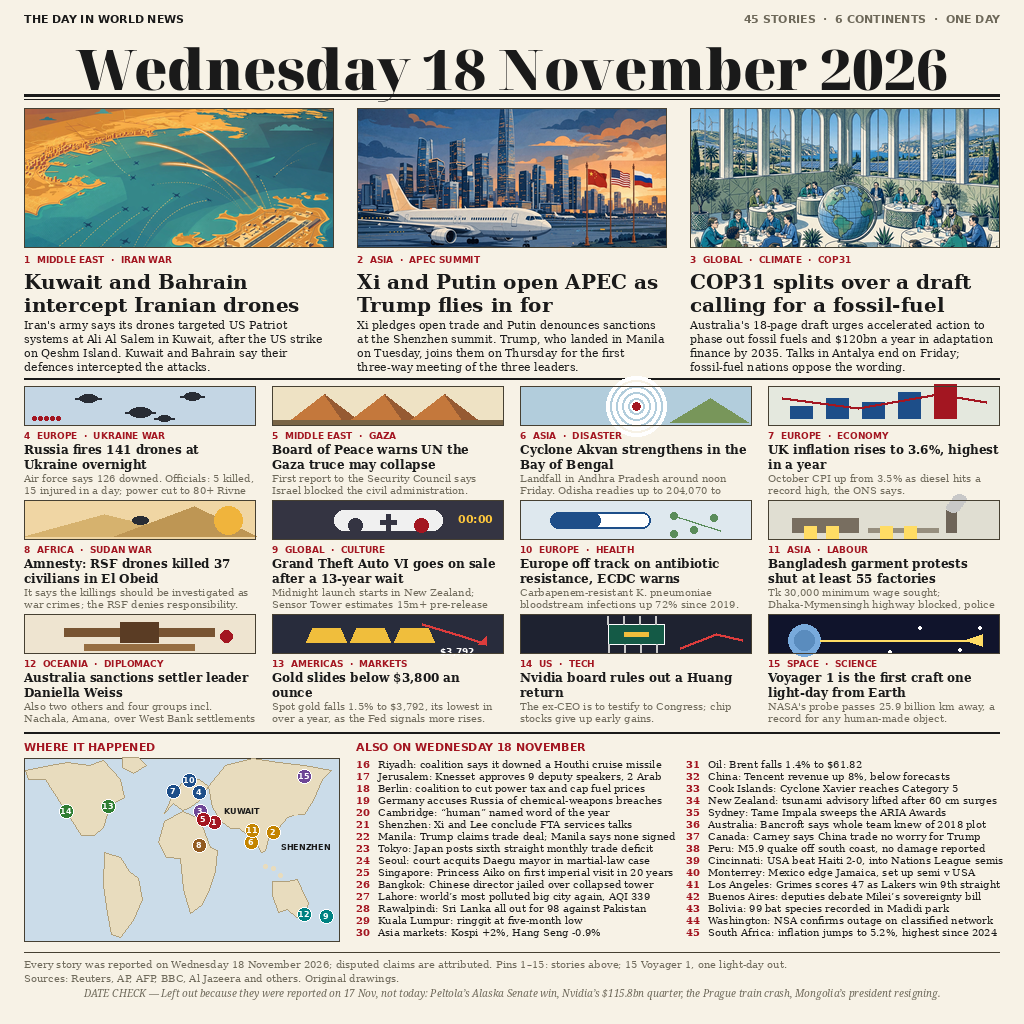
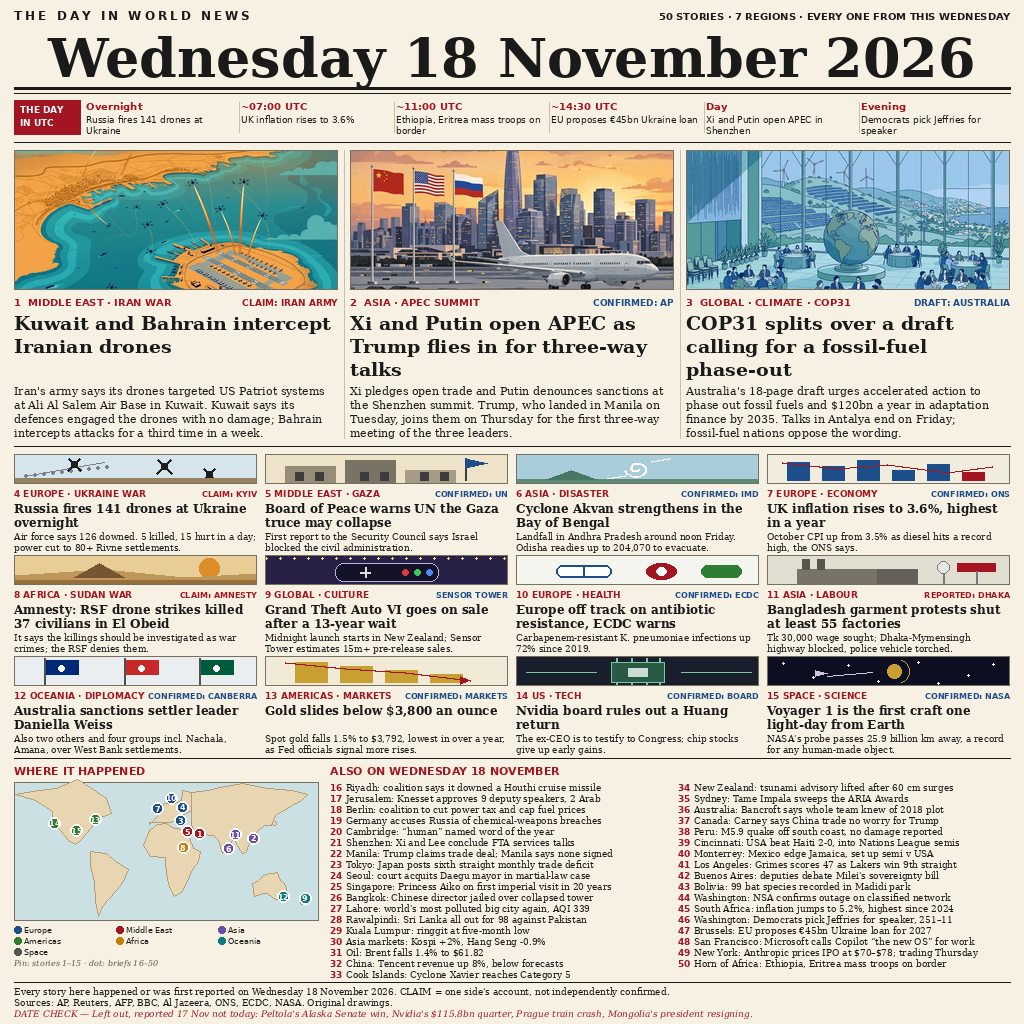
Revise news-image-20261118 rev2: 50 stories, UTC timeline, date check, source tags

diff --git a/main.ts b/main.ts
@@ -1,14 +1,15 @@
-// news-image-20261118 round 2 — "Wednesday 18 November 2026: The Day in World News"
+// news-image-20261118 rev2 — "Wednesday 18 November 2026: The Day in World News"
 // Program (Node 22, standard library only): copies the entry image to the
 // output directory. The image was built in-session for this revision: three
 // image-model lead illustrations composited into a serif newspaper front
-// page — 45 stories, 12 illustrated secondaries, a pinned world map, 30
-// one-line briefs, a source line and a date check. All facts first published
-// on Wednesday 18 November 2026.
-// Deterministic: a copy writes the same bytes on every run. Before copying,
-// the source is validated (must exist and be non-empty) and the copied file
-// is checked back against the source size, so a missing or truncated
-// entry.png fails loudly instead of producing a broken output.
+// page — 50 stories across 7 regions, a UTC timeline strip, source tags on
+// every lead and secondary, a pinned world map, 35 one-line briefs, a source
+// line and a date check. All facts first published on Wednesday
+// 18 November 2026.
+// Deterministic: a copy writes the same bytes on every run. The source is
+// checked before copying (must exist and be non-empty) and the copy is
+// checked back against the source size, so a missing or truncated entry.png
+// fails loudly instead of producing a broken output.
 //
 //   mkdir -p out && MAKEFUN_OUTPUT_DIR=out node main.ts
 

diff --git a/README.md b/README.md
@@ -1,4 +1,4 @@
-# news-image-20261118
+# Wednesday 18 November 2026 — The Day in World News
 
 [![make.fun · news-image-20261118](https://make.fun/badge/news-image-20261118.svg)](https://make.fun/bounty/news-image-20261118?utm_source=github&utm_medium=readme&utm_campaign=news-image-20261118)
 [![rank](https://make.fun/badge/news-image-20261118/Zaianlpfp/news-image-20261118/rank.svg)](https://make.fun/bounty/news-image-20261118/leaderboard?utm_source=github&utm_medium=readme&utm_campaign=news-image-20261118)
@@ -6,7 +6,7 @@
 
 A one-page serif newspaper summing up 18 November 2026 world news in a single 1024x1024 image — an entry for the make.fun bounty ["Sum up 18 November's world news in one image"](https://make.fun/bounty/news-image-20261118) ($250, account @daglog-ai).
 
-Round 2 (revision of the round-1 entry, rank 4,445): three image-model lead illustrations (Gulf drone interceptions, APEC Shenzhen, COP31 Antalya) composited into a newspaper front page — 45 stories, 12 illustrated secondary stories, a pinned world map, 30 one-line briefs, a source line and a date check. All facts first published on Wednesday 18 November 2026. `main.ts` (Node 22, stdlib only, deterministic) copies `entry.png` to the output directory.
+Round 4 (rev2): three image-model lead illustrations (Gulf drone interceptions, APEC Shenzhen, COP31 Antalya) composited into a newspaper front page — **50 stories across 7 regions**, a UTC timeline strip (six time slots, overnight to evening), source tags on every lead and secondary (`CLAIM:` for one side's account, `CONFIRMED:` for verified reports), a pinned world map, 35 one-line briefs, a source line and a DATE CHECK naming the big stories left out because they were reported on 17 November, not today. All facts first published on Wednesday 18 November 2026. `main.ts` (Node 22, stdlib only, deterministic) copies `entry.png` to the output directory.
 
 ## Run it
 
